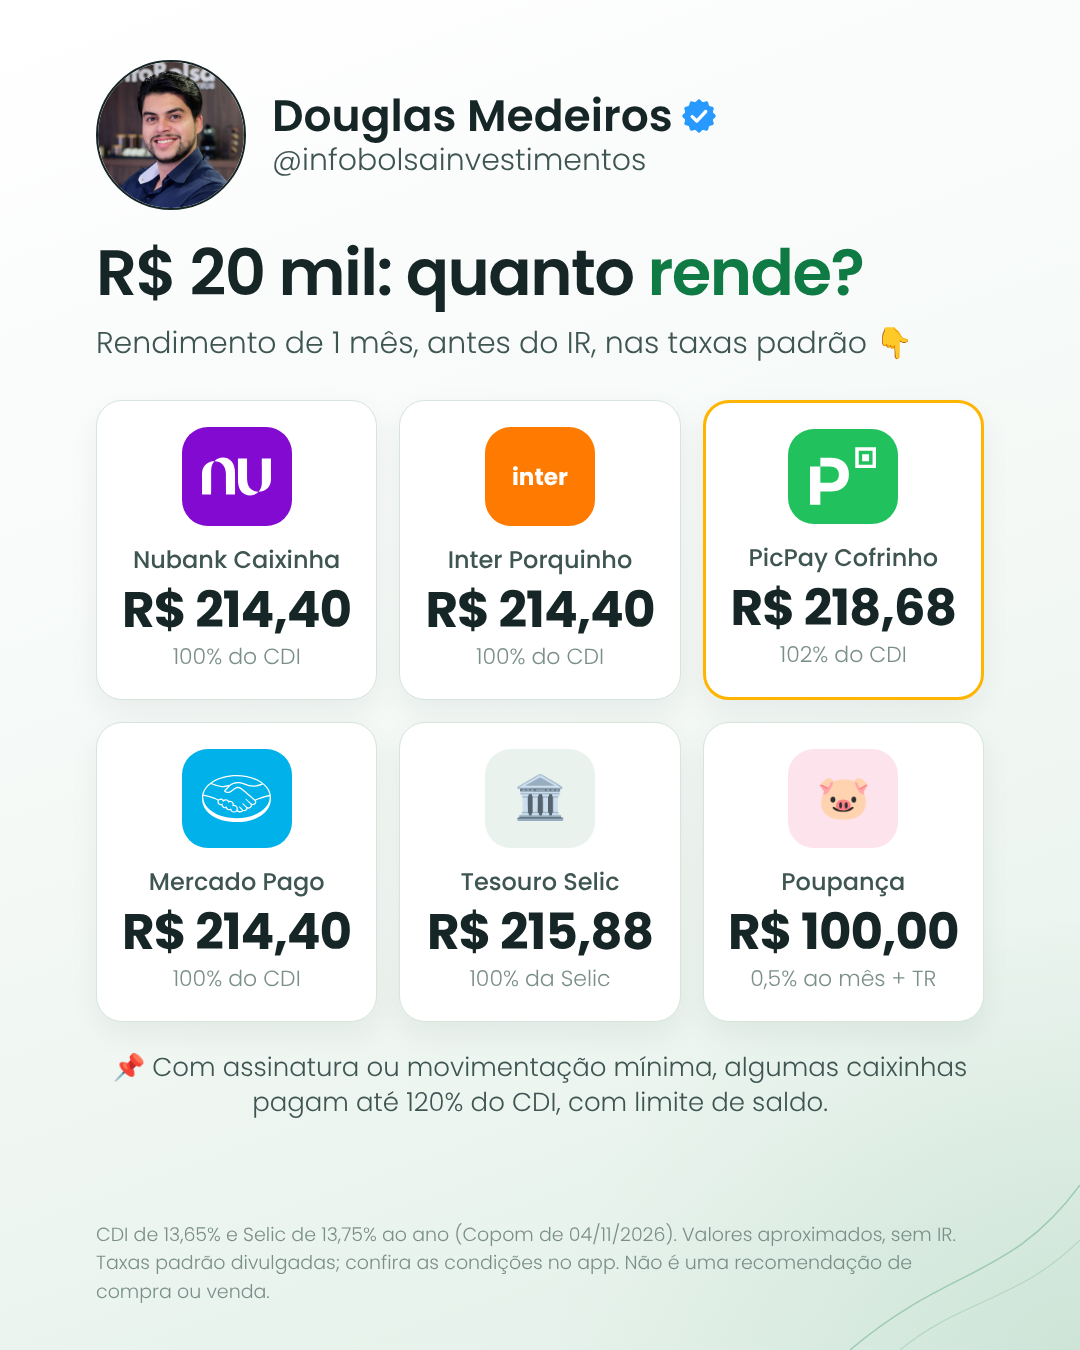
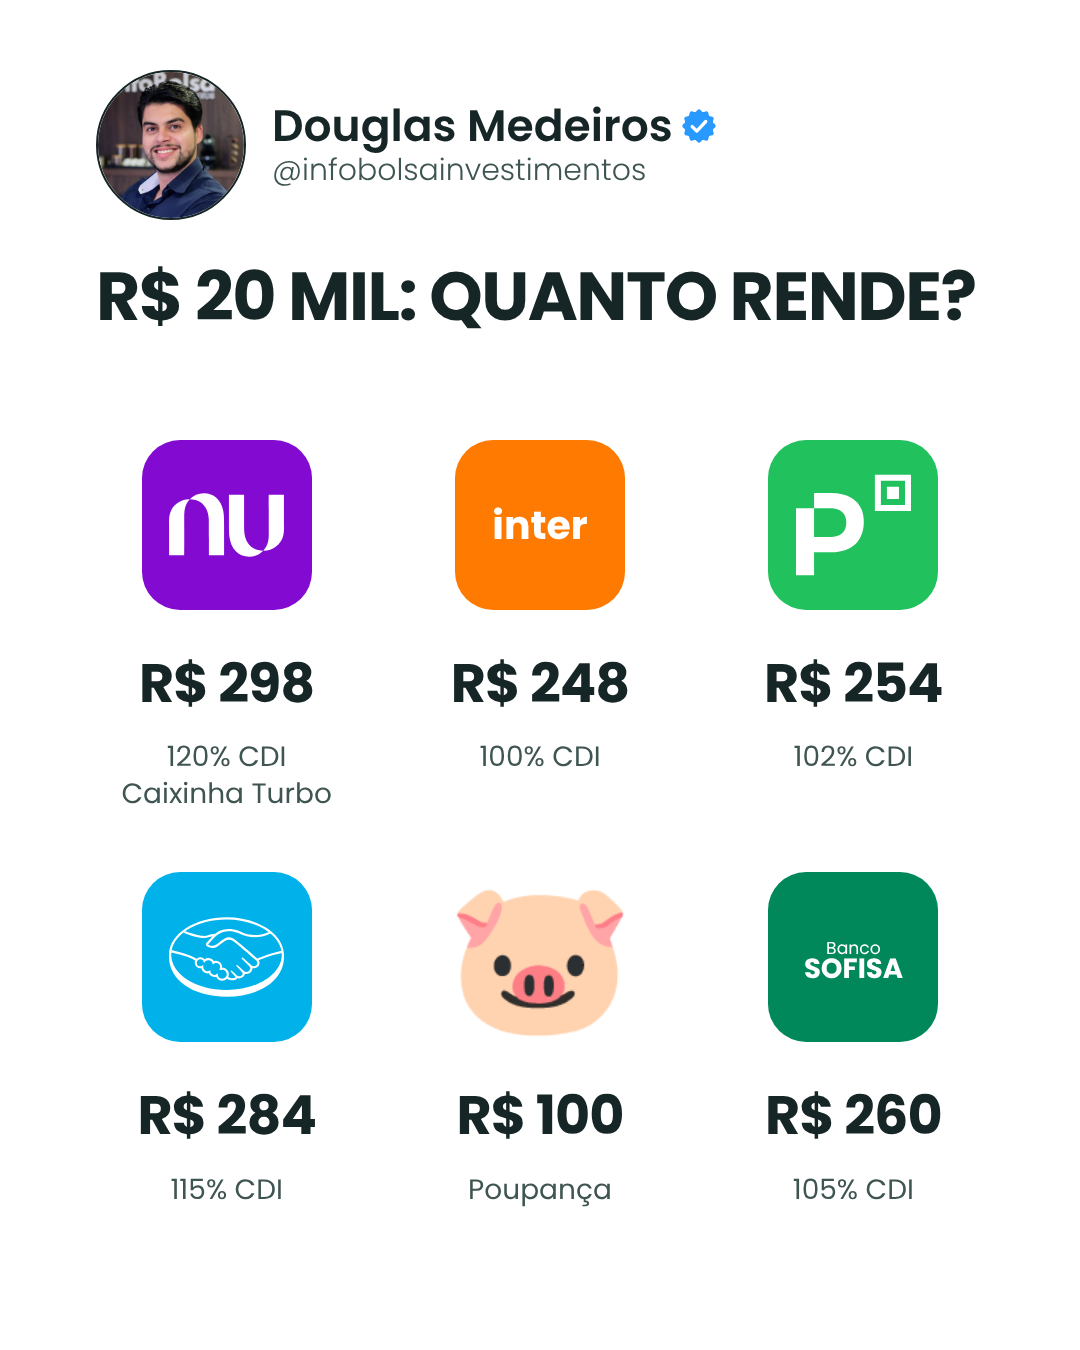
Post R$ 20 mil no estilo Twitter (fundo branco liso)
Claude-Session: https://claude.ai/code/session_01V4Ut9U2W4uPbxLAyJQKmJH

diff --git a/kit/gen_tw.py b/kit/gen_tw.py
@@ -1,0 +1,38 @@
+#!/usr/bin/env python3
+"""Post estilo Twitter (fundo branco liso, só cabeçalho + título + conteúdo).
+Uso: python3 gen_tw.py grade config.json saida.html
+grade: titulo, itens [{logo, fundo, valor, det, emoji}], cols"""
+import json, sys
+from gen_inst import CSS, FS, SELO, SCRIPT
+
+EXTRA = """
+body{background:#ffffff!important}
+.cab{top:70px}
+.tw-t{position:absolute;left:96px;right:96px;top:260px;font-weight:700;font-size:var(--ts,76px);line-height:1.08;letter-spacing:-1.5px;color:#162526}
+.gr{position:absolute;left:70px;right:70px;display:grid;row-gap:60px}
+.it{display:flex;flex-direction:column;align-items:center;text-align:center}
+.lq{width:170px;height:170px;border-radius:38px;display:flex;align-items:center;justify-content:center;overflow:hidden;margin-bottom:22px}
+.lq img{width:68%;height:68%;object-fit:contain}
+.lq.em{font-size:150px;line-height:1}
+.it .v{font-weight:700;font-size:54px;letter-spacing:-1px;color:#162526;line-height:1.1}
+.it .d{font-size:28px;color:#3f5552;line-height:1.3;margin-top:4px}
+"""
+
+def grade(c):
+    it = ""
+    for x in c["itens"]:
+        lq = (f'<div class="lq em">{x["emoji"]}</div>' if x.get("emoji")
+              else f'<div class="lq" style="background:{x["fundo"]}"><img src="{x["logo"]}"></div>')
+        it += f'<div class="it">{lq}<div class="v num">{x["valor"]}</div><div class="d">{x.get("det", "")}</div></div>'
+    return f"""<!doctype html><html lang="pt-BR"><head><meta charset="utf-8"><style>{CSS.replace('FS/', FS)}{EXTRA}</style></head>
+<body style="--fg:#162526;--sub:#3f5552;--foto:#162526;--ts:{c.get("tsize", 76)}px">
+<div class="cab"><div class="ft"><img src="assets/foto.png" alt=""></div>
+<div><div class="nm">Douglas Medeiros {SELO}</div><div class="ar">@infobolsainvestimentos</div></div></div>
+<div class="tw-t">{c["titulo"]}</div>
+<div class="gr" style="top:{c.get("top", 420)}px;grid-template-columns:repeat({c.get("cols", 3)},1fr)">{it}</div>
+{SCRIPT}</body></html>"""
+
+if __name__ == "__main__":
+    tipo, cfg, out = sys.argv[1:4]
+    c = json.load(open(cfg))
+    open(out, "w").write({"grade": grade}[tipo](c))
